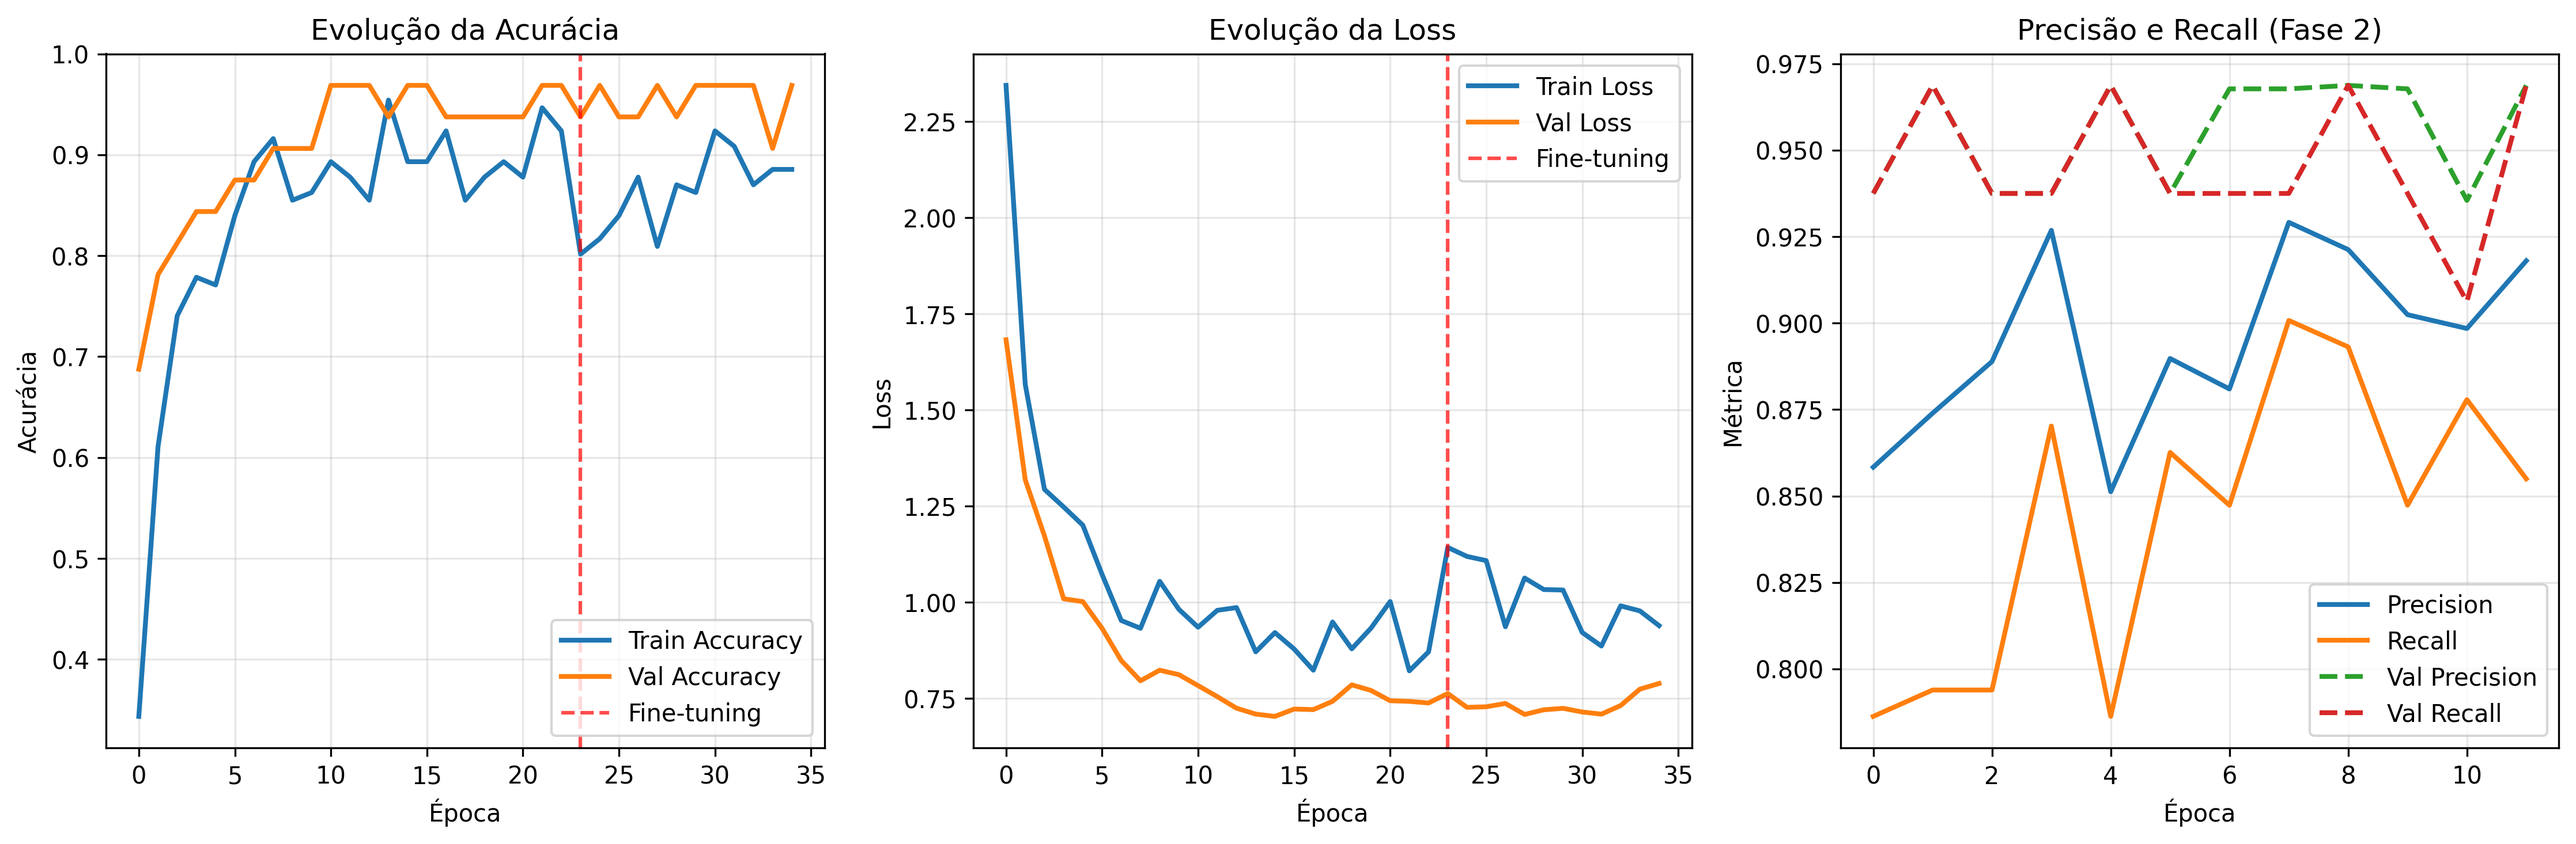
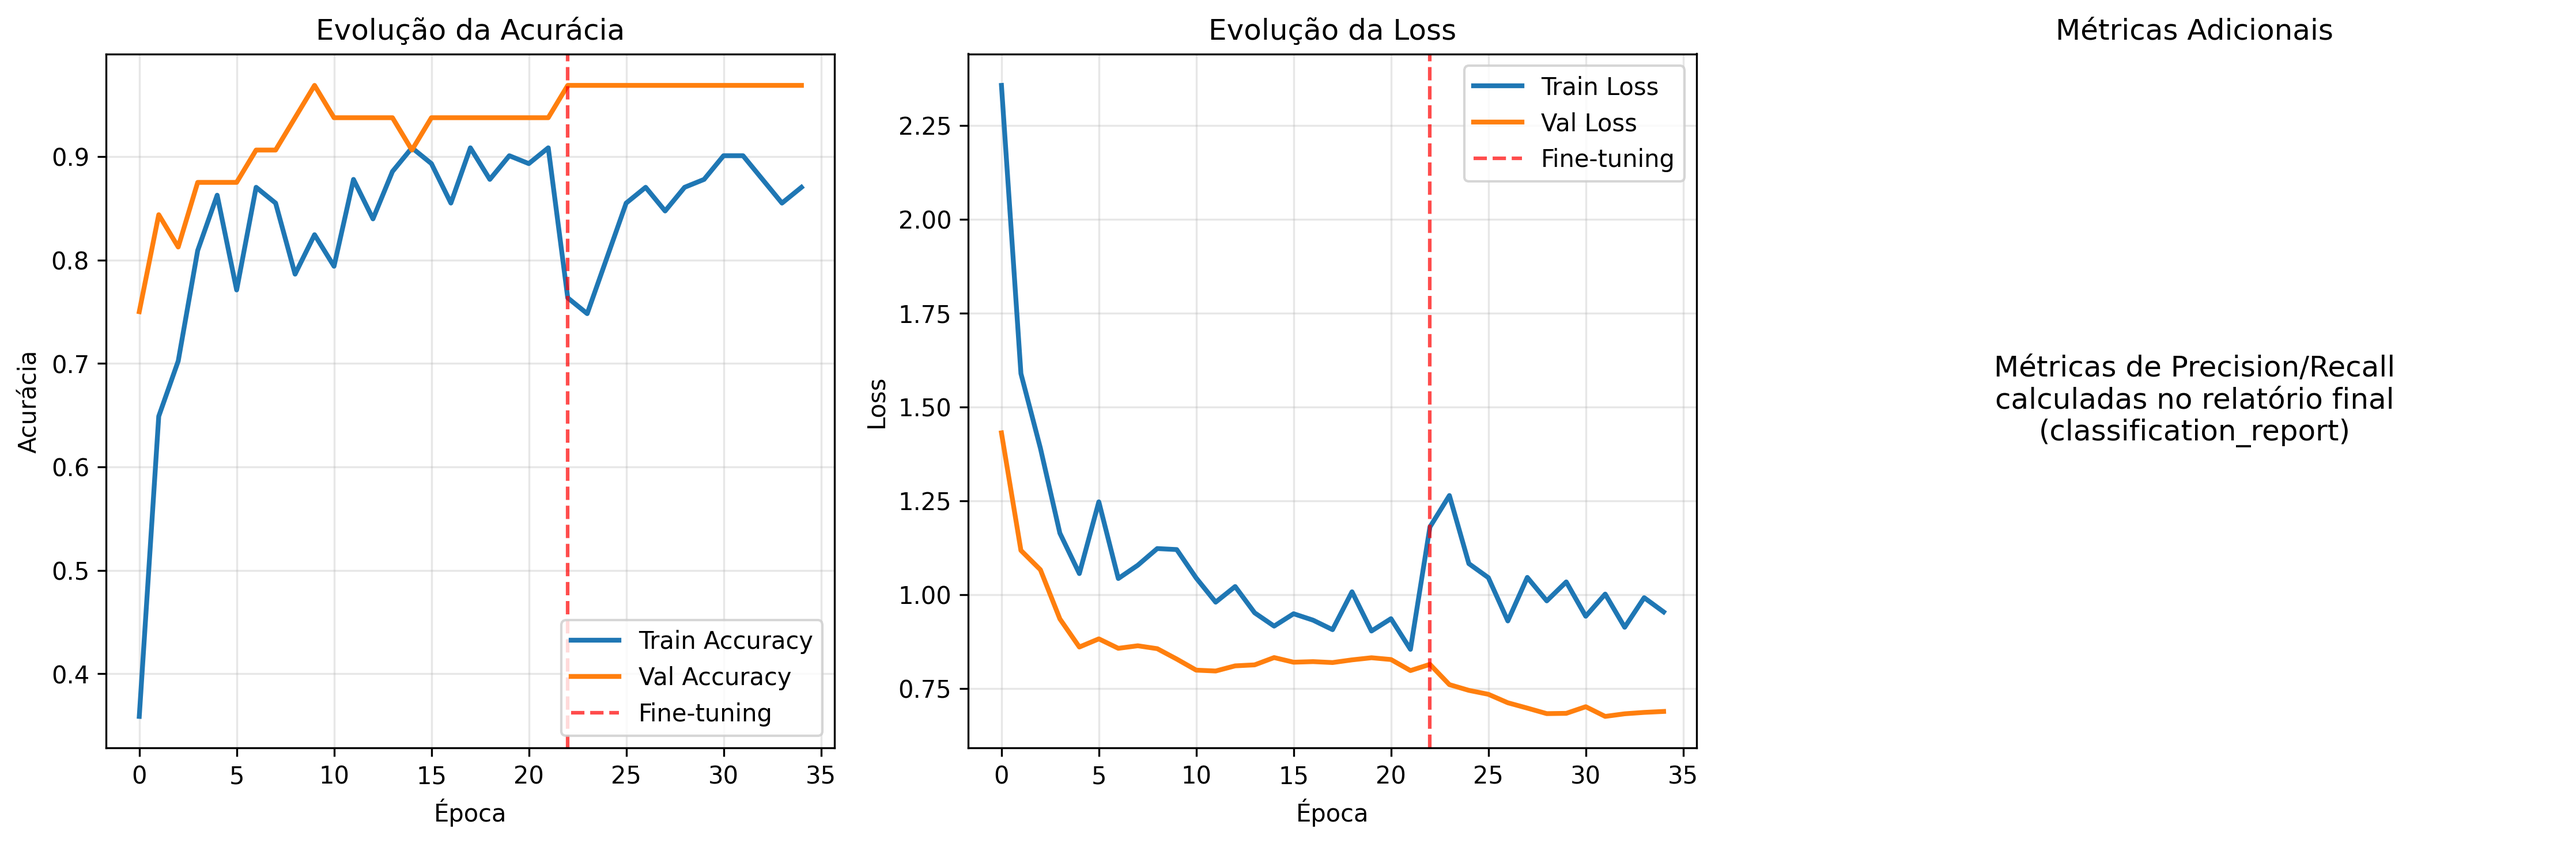
update file

diff --git a/train.py b/train.py
@@ -164,10 +164,10 @@ model = Model(inputs=base_model.input, outputs=output)
 model.compile(
     optimizer=Adam(learning_rate=0.001),
     loss="categorical_crossentropy",
-    metrics=["accuracy", "precision", "recall"]
+    metrics=["accuracy"]  # Apenas accuracy, pois precision/recall são calculadas no relatório final
 )
 
-print("📋 Modelo compilado com métricas avançadas")
+print("📋 Modelo compilado com métricas básicas")
 
 # ================================================================
 # CALLBACKS
@@ -226,7 +226,7 @@ for layer in base_model.layers[:-30]:  # Últimas 30 camadas treináveis
 model.compile(
     optimizer=Adam(learning_rate=0.0001),
     loss="categorical_crossentropy",
-    metrics=["accuracy", "precision", "recall"]
+    metrics=["accuracy"]
 )
 
 print(f"🔧 Camadas treináveis: {sum([l.trainable for l in base_model.layers])}/{len(base_model.layers)}")
@@ -340,6 +340,8 @@ def convert_to_serializable(obj):
         return bool(obj)
     elif isinstance(obj, (np.ndarray,)):
         return obj.tolist()
+    elif isinstance(obj, set):  # Trata sets convertendo para lista
+        return list(obj)
     elif isinstance(obj, dict):
         return {key: convert_to_serializable(value) for key, value in obj.items()}
     elif isinstance(obj, list):
@@ -393,18 +395,10 @@ plt.legend()
 plt.grid(True, alpha=0.3)
 
 plt.subplot(1, 3, 3)
-# Gráfico de precisão e recall
-if 'precision' in history2.history:
-    epochs_range = range(len(history2.history['precision']))
-    plt.plot(epochs_range, history2.history['precision'], label='Precision', linewidth=2)
-    plt.plot(epochs_range, history2.history['recall'], label='Recall', linewidth=2)
-    plt.plot(epochs_range, history2.history['val_precision'], label='Val Precision', linewidth=2, linestyle='--')
-    plt.plot(epochs_range, history2.history['val_recall'], label='Val Recall', linewidth=2, linestyle='--')
-    plt.title('Precisão e Recall (Fase 2)')
-    plt.xlabel('Época')
-    plt.ylabel('Métrica')
-    plt.legend()
-    plt.grid(True, alpha=0.3)
+plt.text(0.5, 0.5, 'Métricas de Precision/Recall\ncalculadas no relatório final\n(classification_report)', 
+         ha='center', va='center', fontsize=12, transform=plt.gca().transAxes)
+plt.title('Métricas Adicionais')
+plt.axis('off')
 
 plt.tight_layout()
 plt.savefig('model/evolucao_treinamento_atualizado.png', dpi=300, bbox_inches='tight')
